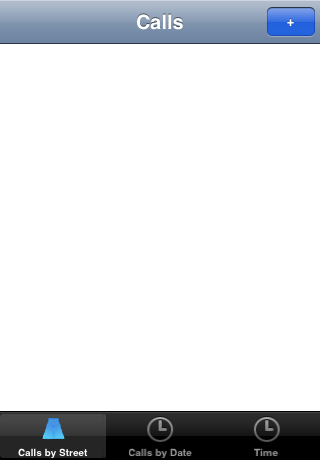
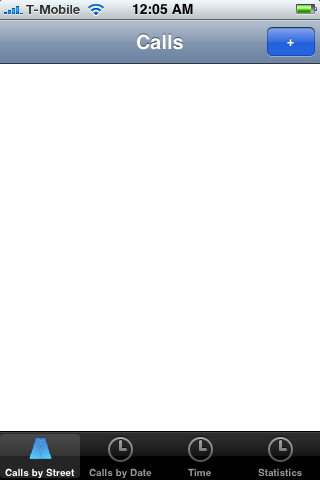
Got Start time working and moved settings within some of the views

Changed region(s): [[0.0, 0.0, 1.0, 0.1522], [0.0, 0.8826, 1.0, 1.0]]

diff --git a/TimeView.m b/TimeView.m
@@ -22,8 +22,6 @@
 #import "TimeView.h"
 #import "App.h"
 
-const char* svn_version(void);
-
 @implementation TimeView
 
 - (void)dealloc
@@ -34,18 +32,17 @@ const char* svn_version(void);
 }
 
 
-- (id) initWithFrame: (CGRect)rect timeEntries:(NSMutableArray **)timeEntries
+- (id) initWithFrame: (CGRect)rect settings:(NSMutableDictionary *) settings
 {
     if((self = [super initWithFrame: rect])) 
     {
         DEBUG(NSLog(@"CallView initWithFrame:");)
 
-		_timeEntries = [[NSMutableArray alloc] initWithArray:*timeEntries];
-		*timeEntries = _timeEntries;
-		
+		_timeEntries = [[NSMutableArray alloc] initWithArray:[settings objectForKey:SettingsTimeEntries]];
+		[settings setObject:_timeEntries forKey:SettingsTimeEntries];
+
         _rect = rect;   
-        // make the navigation bar with
-        //                        +
+        // make the navigation bar 
         CGSize s = [UINavigationBar defaultSize];
         _navigationBar = [[UINavigationBar alloc] initWithFrame: CGRectMake(0,0,rect.size.width, s.height)];
         [_navigationBar setDelegate: self];
@@ -56,16 +53,81 @@ const char* svn_version(void);
 		// 2 = left arrow
 		// 3 = blue
 		[_navigationBar pushNavigationItem: [[[UINavigationItem alloc] initWithTitle:@"Time"] autorelease] ];
-		[_navigationBar showLeftButton:@"Add Time" withStyle:0 rightButton:@"Start Time" withStyle:3];
+		if([settings objectForKey:SettingsTimeStartDate] == nil)
+		{
+			[_navigationBar showLeftButton:@"Add Time" withStyle:0 rightButton:@"Start Time" withStyle:3];
+		}
+		else
+		{
+			[_navigationBar showLeftButton:@"Add Time" withStyle:0 rightButton:@"Stop Time" withStyle:1];
+		}
         
         _table = [[UITable alloc] initWithFrame: CGRectMake(0, s.height, rect.size.width, rect.size.height - s.height)];
+		[_table addTableColumn: [[[UITableColumn alloc] initWithTitle:@"Times" identifier:nil width: rect.size.width] autorelease]];
         [self addSubview: _table];
         [_table setDelegate: self];
         [_table setDataSource: self];
+		[_table setSeparatorStyle: 1];
 		[_table enableRowDeletion: YES animated:YES];
+		[_table reloadData];
     }
     
     return(self);
+}
+
+
+/******************************************************************
+ *
+ *   NAVIGATION BAR
+ *   1 left button                                0 right button
+ ******************************************************************/
+- (void)navigationBar:(UINavigationBar*)nav buttonClicked:(int)button
+{
+	DEBUG(NSLog(@"navigationBar: buttonClicked:%s", button == 0? "Start/Stop time" : "Add Time");)
+
+	switch(button)
+	{
+		case 1: // Add Time
+			break;
+		
+		case 0: // start/stop time
+		{
+			NSMutableDictionary *settings = [[App getInstance] getSavedData];
+			if([settings objectForKey:SettingsTimeStartDate] == nil)
+			{
+				[settings setObject:[NSCalendarDate calendarDate] forKey:SettingsTimeStartDate];
+				[[App getInstance] saveData];
+				// 0 = gray
+				// 1 = red
+				// 2 = left arrow
+				// 3 = blue
+				[nav showLeftButton:@"Add Time" withStyle:0 rightButton:@"Stop Time" withStyle:1];
+			}
+			else
+			{
+				// we found a saved start date, lets see how much time there was between then and now
+				NSCalendarDate *date = [[[NSCalendarDate alloc] initWithTimeIntervalSinceReferenceDate:[[settings objectForKey:SettingsTimeStartDate] timeIntervalSinceReferenceDate]] autorelease];	
+				NSCalendarDate *now = [NSCalendarDate calendarDate];
+				
+				int minutes = [now timeIntervalSinceDate:date]/60.0;
+				if(minutes > 0)
+				{
+					NSMutableDictionary *entry = [[[NSMutableDictionary alloc] init] autorelease];
+
+					[entry setObject:date forKey:SettingsTimeEntryDate];
+					[entry setObject:[[[NSNumber alloc] initWithInt:minutes] autorelease] forKey:SettingsTimeEntryMinutes];
+					[_timeEntries insertObject:entry atIndex:0];
+				
+					[_table reloadData];
+				}
+				[settings removeObjectForKey:SettingsTimeStartDate];
+				[[App getInstance] saveData];
+
+				[nav showLeftButton:@"Add Time" withStyle:0 rightButton:@"Start Time" withStyle:3];
+			}
+			break;
+		}
+	}
 }
 
 
@@ -77,45 +139,52 @@ const char* svn_version(void);
 
 - (int)numberOfRowsInTable:(UITable*)table
 {
-	return [_timeEntries count];
+	int count = [_timeEntries count];
+    DEBUG(NSLog(@"numberOfRowsInTable: %d", count);)
+	return(count);
 }
 
 - (UITableCell*)table:(UITable*)table cellForRow:(int)row column:(UITableColumn *)column
 {
-#if 0
+    DEBUG(NSLog(@"table: cellForRow: %d", row);)
 	id cell = [[[UIImageAndTextTableCell alloc] init] autorelease];
-	NSString *title = [[[NSString alloc] init] autorelease];
-	NSString *houseNumber = [[_calls objectAtIndex:row] objectForKey:CallStreetNumber ];
-	NSString *street = [[_calls objectAtIndex:row] objectForKey:CallStreet];
+	
+	NSMutableDictionary *entry = [_timeEntries objectAtIndex:row];
 
-	if(houseNumber && [houseNumber length])
-		title = [title stringByAppendingFormat:@"%@ ", houseNumber];
-	if(street && [street length])
-		title = [title stringByAppendingString:street];
-	if([title length] == 0)
-		title = @"(unknown street)";
+	NSNumber *time = [entry objectForKey:SettingsTimeEntryMinutes];
 
-	[cell setTitle: title];
+	NSCalendarDate *date = [[[NSCalendarDate alloc] initWithTimeIntervalSinceReferenceDate:[[entry objectForKey:SettingsTimeEntryDate] timeIntervalSinceReferenceDate]] autorelease];	
+	[cell setTitle:[date descriptionWithCalendarFormat:@"%a %b %d"]];
 
 	CGSize s = CGSizeMake( [column width], [table rowHeight] );
 	UITextLabel* label = [[[UITextLabel alloc] initWithFrame: CGRectMake(200,0,s.width,s.height)] autorelease];
 	float bgColor[] = { 0,0,0,0 };
 	[label setBackgroundColor: CGColorCreate(CGColorSpaceCreateDeviceRGB(), bgColor)];
-	[label setText:[[_calls objectAtIndex:row] objectForKey:CallName]];
+
+	int minutes = [time intValue];
+	int hours = minutes / 60;
+	minutes %= 60;
+	if(hours && minutes)
+		[label setText:[NSString stringWithFormat:@"%d hours %d minutes", hours, minutes]];
+	else if(hours)
+		[label setText:[NSString stringWithFormat:@"%d hours", hours]];
+	else if(minutes)
+		[label setText:[NSString stringWithFormat:@"%d minutes", minutes]];
+	
 	[cell addSubview: label];
 
 	return cell;
-#endif
-return nil;
 }
 
 -(BOOL)table:(UITable*)table showDisclosureForRow:(int)row
 {
+    DEBUG(NSLog(@"table: showDisclosureForRow");)
     return(NO);
 }
 
 -(BOOL)table:(UITable*)table canDeleteRow:(int)row
 {
+    DEBUG(NSLog(@"table: canDeleteRow");)
 	return YES;
 }
 

diff --git a/MainView.m b/MainView.m
@@ -52,7 +52,11 @@ NSString const * const SettingsLastCallStreet = @"lastStreet";
 NSString const * const SettingsLastCallCity = @"lastCity";
 NSString const * const SettingsLastCallState = @"lastState";
 NSString const * const SettingsCurrentButtonBarView = @"currentButtonBarView";
+
+NSString const * const SettingsTimeStartDate = @"timeStartDate";
 NSString const * const SettingsTimeEntries = @"timeEntries";
+NSString const * const SettingsTimeEntryDate = @"date";
+NSString const * const SettingsTimeEntryMinutes = @"minutes";
 
 static NSString *dataPath = @"/var/root/Library/MyTime/record.plist";
 
@@ -173,7 +177,7 @@ static NSString *dataPath = @"/var/root/Library/MyTime/record.plist";
             setFrame:CGRectMake( (i*width), 1.0, width, 48.0)
         ];
     }
-    [ button showSelectionForButton: buttons[0]];
+    [ button showSelectionForButton: _currentButtonBarView];
 
     return button;
 }
@@ -187,15 +191,8 @@ static NSString *dataPath = @"/var/root/Library/MyTime/record.plist";
 	}
 }
 
-- (void)buttonBarItemTapped:(id) sender 
+- (void)setView:(int)button
 {
-    int button = [ sender tag ];
-	DEBUG(NSLog(@"buttonBarItemTapped: %d", button);)
-	
-	// if they clicked on the button that we are currently on, then just return dont do anything
-	if(button == _currentButtonBarView)
-		return;
-		
     switch (button) 
 	{
         case VIEW_SORTED_BY_STREET:
@@ -218,9 +215,21 @@ static NSString *dataPath = @"/var/root/Library/MyTime/record.plist";
 			[ self transition:0 toView:_statisticsView];
 			break;
     }
+}
+
+- (void)buttonBarItemTapped:(id) sender 
+{
+    int button = [ sender tag ];
+	DEBUG(NSLog(@"buttonBarItemTapped: %d", button);)
+	
+	// if they clicked on the button that we are currently on, then just return dont do anything
+	if(button == _currentButtonBarView)
+		return;
+
+	[self setView:button];
+	
 	_currentButtonBarView = button;
     [_settings setObject:[[[NSNumber alloc] initWithInt:_currentButtonBarView] autorelease] forKey:SettingsCurrentButtonBarView];
-    [self saveData];
 }
 
 
@@ -281,16 +290,14 @@ static NSString *dataPath = @"/var/root/Library/MyTime/record.plist";
 													       sortBy:CALLS_SORTED_BY_STREET];
 
 		// create the TimeView
-		NSMutableArray *timeEntries = [_settings objectForKey:SettingsTimeEntries];
-		_timeView = [[TimeView alloc] initWithFrame:rect timeEntries:&timeEntries];
-		[_settings setObject:timeEntries forKey:SettingsTimeEntries];
+		_timeView = [[TimeView alloc] initWithFrame:rect settings:_settings];
 
 		// create the TimeView
-		_statisticsView = [[StatisticsView alloc] initWithFrame:rect];
+		_statisticsView = [[StatisticsView alloc] initWithFrame:rect settings:_settings];
 
 		// set the SortedCallsView as the main view
 		[self addSubview: _transitionView];
-		[self transition:0 toView:_sortedCallsView];
+		[self setView:_currentButtonBarView];
 
 		
 		// create the buttonbar and add it at the lat 49pix of the screen

diff --git a/StatisticsView.m b/StatisticsView.m
@@ -19,7 +19,6 @@
 #import <UIKit/UIPreferencesTextTableCell.h>
 #import <UIKit/UIPickerView.h>
 #import <UIKit/UITextFieldLabel.h>
-#import "TimeView.h"
 #import "StatisticsView.h"
 #import "App.h"
 
@@ -68,11 +67,8 @@ static NSString *MONTHS[] = {
 	_lastMonthBibleStudies = 0;
 	_lastMonthSpecialPublications = 0;
 	
-
-
-	NSMutableDictionary *settings = [[App getInstance] getSavedData];
 	int callIndex;
-	NSArray *calls = [settings objectForKey:SettingsCalls];
+	NSArray *calls = [_settings objectForKey:SettingsCalls];
 	int callCount = [calls count];
 	
 	// save off this month and last month for quick compares
@@ -174,13 +170,14 @@ static NSString *MONTHS[] = {
 	[_table reloadData];
 }
 
-- (id) initWithFrame: (CGRect)rect
+- (id) initWithFrame: (CGRect)rect settings:(NSMutableDictionary *)settings
 {
     if((self = [super initWithFrame: rect])) 
     {
         DEBUG(NSLog(@"CallView initWithFrame:");)
 
         _rect = rect;   
+		_settings = settings;
         
         _table = [[UIPreferencesTable alloc] initWithFrame: _rect];
         [self addSubview: _table];

diff --git a/TimeView.h b/TimeView.h
@@ -29,6 +29,15 @@
  * @param rect - the rect
  * @returns self
  */
-- (id) initWithFrame: (CGRect)rect timeEntries:(NSMutableArray **)timeEntries;
+- (id) initWithFrame: (CGRect)rect settings:(NSMutableDictionary *) settings;
 - (void)dealloc;
+
+
+- (void)navigationBar:(UINavigationBar*)nav buttonClicked:(int)button;
+- (int)numberOfRowsInTable:(UITable*)table;
+- (UITableCell*)table:(UITable*)table cellForRow:(int)row column:(UITableColumn *)column;
+-(BOOL)table:(UITable*)table showDisclosureForRow:(int)row;
+-(BOOL)table:(UITable*)table canDeleteRow:(int)row;
+-(void)table:(UITable*)table movedRow:(int)fromRow toRow:(int)toRow;
+
 @end

diff --git a/MainView.h b/MainView.h
@@ -92,7 +92,11 @@ extern NSString const * const SettingsLastCallStreet;
 extern NSString const * const SettingsLastCallCity;
 extern NSString const * const SettingsLastCallState;
 extern NSString const * const SettingsCurrentButtonBarView;
+
+extern NSString const * const SettingsTimeStartDate;
 extern NSString const * const SettingsTimeEntries;
+extern NSString const * const SettingsTimeEntryDate;
+extern NSString const * const SettingsTimeEntryMinutes;
 
 @end
 

diff --git a/StatisticsView.h b/StatisticsView.h
@@ -18,6 +18,7 @@
 @interface StatisticsView : UIView {
     CGRect _rect;
     UIPreferencesTable *_table;
+	NSMutableDictionary *_settings;
 	
 	int _thisMonth;
 	int _lastMonth;
@@ -48,7 +49,7 @@
  * @param rect - the rect
  * @returns self
  */
-- (id) initWithFrame: (CGRect)rect;
+- (id) initWithFrame: (CGRect)rect settings:(NSMutableDictionary *)settings;
 - (void)dealloc;
 - (void)reloadData;
 @end

diff --git a/App.m b/App.m
@@ -45,7 +45,6 @@ App *me;
 	[_mainView setCalls:calls];
 }
 
-
 - (UIWindow *)window
 {
 	return(_window);
